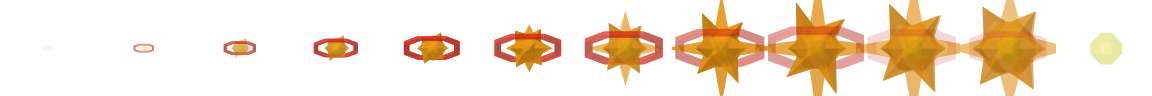
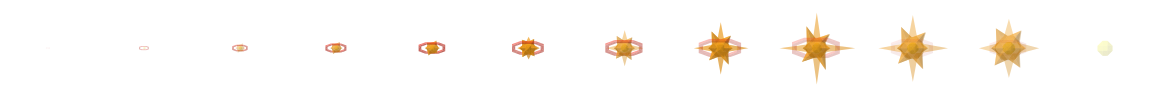
fix(hunter): snares show their real sprite again, and a chinchompa's blast now covers exactly the tiles it hits

Changed region(s): [[0.3438, 0.0, 1.0, 1.0], [0.1875, 0.375, 0.3125, 0.625], [0.0938, 0.4375, 0.1562, 0.5625]]

diff --git a/lib/game/data/spotanims.ts b/lib/game/data/spotanims.ts
@@ -27,6 +27,16 @@ export interface SpotAnimMeta {
 }
 
 /**
+ * Impacts baked with extra padding, and the box size that cancels it out.
+ * Fire Blast's last frames bloom far wider than the rest, so it is baked at a
+ * 0.3 fit margin (see HIT_MARGIN in scripts/render-osrs-spotanims.mjs) to stop
+ * the star's points being cut off at the sheet edge — the art then fills ~78%
+ * of its frame instead of all of it, and a proportionally bigger box keeps it
+ * looking the same size on screen.
+ */
+const HIT_SIZE: Record<string, number> = { hit_fire_3: 92 };
+
+/**
  * Presentation defaults by slug family. Sheet facts (frames/timings) come from
  * the generated table; this layer decides how each GFX *plays* in our scenes:
  *  - `hit_*` spell impacts: one-shot on the struck model, sized near the
@@ -36,7 +46,7 @@ export interface SpotAnimMeta {
  */
 function presentationFor(slug: string): { size: number; speed: number; loop?: boolean; blend: 'add' | 'alpha' } {
   if (slug.startsWith('proj_')) return { size: 30, speed: 1, loop: true, blend: 'alpha' };
-  if (slug.startsWith('hit_')) return { size: 72, speed: 1, blend: 'alpha' };
+  if (slug.startsWith('hit_')) return { size: HIT_SIZE[slug] ?? 72, speed: 1, blend: 'alpha' };
   // portal (and future NPC-sourced loops)
   return { size: 104, speed: 1, loop: true, blend: 'add' };
 }

diff --git a/lib/game/core/sim/traps.ts b/lib/game/core/sim/traps.ts
@@ -99,7 +99,10 @@ function fire(eng: GameEngine, trap: HunterTrap, def: HunterTrapDef, e: Enemy): 
     }
     case 'blast': {
       const caught = enemiesInBlast(def, trap, eng.enemies);
-      spawnEffect(eng, 'hit_fire_3', trap.x, trap.y, def.radius / 26);
+      // The fireball is drawn as a box `size * scale` wide, and its art fills
+      // ~78% of that box — so radius/36 makes the visible blast span exactly
+      // the diameter it damages, matching the ring below instead of dwarfing it.
+      spawnEffect(eng, 'hit_fire_3', trap.x, trap.y, def.radius / 36);
       addRing(eng, trap.x, trap.y, 6, def.radius, '#ff8a3d', 0.4, 4);
       eng.sound.play('fire_cannon', 55);
       for (const target of caught) {
